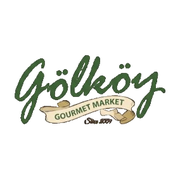
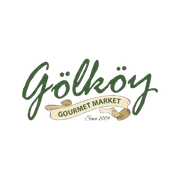
fix: header/footer logosunu arka plansiz yesil Golkoy Gurme yap.
Crop/transform kutusu kaldirildi; Google icin seffaf favicon kullanildi.

Changed region(s): [[0.0556, 0.3056, 0.9444, 0.6944]]

diff --git a/frontend/src/App.css b/frontend/src/App.css
@@ -97,43 +97,32 @@
 }
 
 .logo-container img {
-  transition: all 0.3s cubic-bezier(0.34, 1.56, 0.64, 1);
-  filter: drop-shadow(0 2px 4px rgba(0, 0, 0, 0.1));
+  transition: opacity 0.2s ease;
 }
 
 .brand-logo-shell {
   display: flex;
   align-items: center;
-  width: 188px;
-  min-width: 188px;
-  height: 78px;
+  width: auto;
+  min-width: 0;
+  height: 56px;
   justify-content: flex-start;
 }
 
 .brand-logo-main {
   display: flex;
   align-items: center;
-  width: 100%;
+  width: auto;
   height: 100%;
 }
 
-.brand-logo-crop {
-  width: 188px;
-  height: 78px;
-  display: flex;
-  align-items: flex-start;
-  justify-content: flex-start;
-  overflow: hidden;
-  filter: drop-shadow(0 3px 8px rgba(23, 37, 84, 0.12));
-}
-
 .brand-logo-image {
-  width: 263px;
-  max-width: none;
-  height: auto;
+  height: 56px;
+  width: auto;
+  max-width: 200px;
   display: block;
-  transform: translate(-32px, -74px);
-  transform-origin: top left;
+  object-fit: contain;
+  background: transparent;
   pointer-events: none;
   user-select: none;
 }
@@ -164,24 +153,13 @@
   flex-shrink: 0;
 }
 
-.footer-logo-crop {
-  width: 162px;
-  height: 78px;
-  display: flex;
-  align-items: flex-start;
-  justify-content: flex-start;
-  overflow: hidden;
-  flex-shrink: 0;
-  margin-left: 0;
-}
-
 .footer-brand-logo-image {
-  width: 263px;
-  max-width: none;
-  height: auto;
+  height: 56px;
+  width: auto;
+  max-width: 200px;
   display: block;
-  transform: translate(-50px, -74px);
-  transform-origin: top left;
+  object-fit: contain;
+  background: transparent;
   pointer-events: none;
   user-select: none;
 }
@@ -4544,19 +4522,12 @@ video.promo-grid-image,
   }
 
   .main-header--storefront .brand-logo-shell {
-    width: 118px;
-    min-width: 118px;
-    height: 50px;
-  }
-
-  .main-header--storefront .brand-logo-crop {
-    width: 118px;
-    height: 50px;
+    height: 44px;
   }
 
   .main-header--storefront .brand-logo-image {
-    width: 168px;
-    transform: translate(-22px, -48px);
+    height: 44px;
+    max-width: 150px;
   }
 
   .main-header--storefront .modern-search-container .input-group,
@@ -4652,19 +4623,12 @@ video.promo-grid-image,
   }
 
   .main-header--storefront .brand-logo-shell {
-    width: 132px;
-    min-width: 132px;
-    height: 56px;
-  }
-
-  .main-header--storefront .brand-logo-crop {
-    width: 132px;
-    height: 56px;
+    height: 50px;
   }
 
   .main-header--storefront .brand-logo-image {
-    width: 185px;
-    transform: translate(-24px, -52px);
+    height: 50px;
+    max-width: 170px;
   }
 
   .main-header--storefront .modern-search-container .form-control,
@@ -5347,31 +5311,21 @@ video.promo-grid-image,
   }
 
   .brand-logo-shell {
-    width: 132px !important;
-    min-width: 132px !important;
-    height: 46px !important;
-  }
-
-  .brand-logo-crop {
-    width: 132px !important;
-    height: 46px !important;
-    overflow: hidden !important;
+    height: 42px !important;
   }
 
   .brand-logo-image {
-    width: 194px !important;
-    max-width: none !important;
-    transform: translate(-23px, -54px) !important;
-  }
-
-  .footer-logo-crop {
-    width: 132px !important;
-    height: 46px !important;
+    height: 42px !important;
+    max-width: 148px !important;
+    width: auto !important;
+    transform: none !important;
   }
 
   .footer-brand-logo-image {
-    width: 194px !important;
-    transform: translate(-23px, -54px) !important;
+    height: 42px !important;
+    max-width: 148px !important;
+    width: auto !important;
+    transform: none !important;
   }
 
   .footer-brand-secondary-image {
@@ -5699,24 +5653,22 @@ video.promo-grid-image,
     height: 70px !important;
   }
 
-  .brand-logo-crop {
-    width: 160px !important;
-    height: 62px !important;
+  .brand-logo-shell {
+    height: 50px !important;
   }
 
   .brand-logo-image {
-    width: 234px !important;
-    transform: translate(-30px, -70px) !important;
-  }
-
-  .footer-logo-crop {
-    width: 138px !important;
-    height: 62px !important;
+    height: 50px !important;
+    max-width: 170px !important;
+    width: auto !important;
+    transform: none !important;
   }
 
   .footer-brand-logo-image {
-    width: 234px !important;
-    transform: translate(-44px, -70px) !important;
+    height: 50px !important;
+    max-width: 170px !important;
+    width: auto !important;
+    transform: none !important;
   }
 
   .secondary-logo {

diff --git a/frontend/src/components/Footer.jsx b/frontend/src/components/Footer.jsx
@@ -97,7 +97,7 @@ export default function Footer() {
     ? `https://wa.me/${contact.whatsAppNumber}?text=${encodeURIComponent(contact.whatsAppMessage || "")}`
     : "#";
 
-  const footerLogoSrc = "/images/golkoy-logo-new.png";
+  const footerLogoSrc = "/images/golkoy-header-logo.png";
 
   const phoneDisplay = contact.phoneDisplay || contact.phone;
   const hasPhone = Boolean(contact.whatsAppNumber || phoneDisplay);
@@ -118,13 +118,11 @@ export default function Footer() {
             <div className="footer-brand">
               <div className="footer-brand-logos mb-3">
                 <Link to="/" className="footer-brand-link" aria-label="Ana sayfa">
-                  <div className="footer-logo-crop">
-                    <img
-                      src={footerLogoSrc}
-                      alt={company.name || "Gölköy Gurme"}
-                      className="footer-brand-logo-image"
-                    />
-                  </div>
+                  <img
+                    src={footerLogoSrc}
+                    alt={company.name || "Gölköy Gurme"}
+                    className="footer-brand-logo-image"
+                  />
                 </Link>
               </div>
               {company.description && (

diff --git a/frontend/src/App.js b/frontend/src/App.js
@@ -320,16 +320,11 @@ function Header() {
               <Link to="/" className="text-decoration-none">
                 <div className="d-flex align-items-center logo-stack brand-logo-shell">
                   <div className="logo-container brand-logo-main">
-                    <div
-                      className="main-logo brand-logo-crop"
-                      aria-label="Gölköy Gurme"
-                    >
-                      <img
-                        className="brand-logo-image"
-                        src="/images/golkoy-logo-new.png"
-                        alt="Gölköy Gurme"
-                      />
-                    </div>
+                    <img
+                      className="brand-logo-image"
+                      src="/images/golkoy-header-logo.png"
+                      alt="Gölköy Gurme"
+                    />
                   </div>
                 </div>
               </Link>

diff --git a/frontend/public/index.html b/frontend/public/index.html
@@ -4,10 +4,11 @@
     <meta charset="utf-8" />
     <meta name="google" content="notranslate" />
     <meta http-equiv="Content-Language" content="tr" />
-    <link rel="icon" href="%PUBLIC_URL%/favicon.ico" sizes="any" />
     <link rel="icon" type="image/png" sizes="32x32" href="%PUBLIC_URL%/images/favicon-32.png" />
     <link rel="icon" type="image/png" sizes="192x192" href="%PUBLIC_URL%/images/golkoy-favicon.png" />
+    <link rel="shortcut icon" href="%PUBLIC_URL%/images/golkoy-favicon.png" />
     <link rel="apple-touch-icon" href="%PUBLIC_URL%/images/apple-touch-icon.png" />
+    <link rel="icon" href="%PUBLIC_URL%/favicon.ico" sizes="any" />
     <meta name="viewport" content="width=device-width, initial-scale=1" />
     <meta name="theme-color" content="#2d5a3d" />
     <meta

diff --git a/frontend/src/services/siteSettingsService.js b/frontend/src/services/siteSettingsService.js
@@ -143,7 +143,7 @@ const getDefaultSiteSettings = () => ({
     legalName: "Gölköy Gurme Market",
     description:
       "Bodrum Gölköy'de taze meyve-sebze, et, süt ürünleri ve günlük market ihtiyaçlarınızı kendi kuryemizle kapınıza getiriyoruz. Yerel lezzetler, soğuk zincir ve güvenli alışveriş.",
-    logoUrl: "/images/golkoy-logo1.png",
+    logoUrl: "/images/golkoy-header-logo.png",
     secondaryLogoUrl: "/images/dogadan-sofranza-logo.png",
     copyrightText: "Tüm haklar Gölköy Gurme Markete aittir.",
   },

diff --git a/frontend/scripts/generate-favicon.py b/frontend/scripts/generate-favicon.py
@@ -4,7 +4,6 @@ from pathlib import Path
 public = Path(__file__).resolve().parents[1] / "public"
 images = public / "images"
 
-# Yeşil Gölköy logosu (kullanıcının gönderdiği marka)
 src = Image.open(images / "golkoy-logo-new.png").convert("RGBA")
 pixels = src.load()
 w, h = src.size
@@ -21,27 +20,17 @@ for y in range(h):
         maxx = max(maxx, x)
         maxy = max(maxy, y)
 
-cropped = src.crop((minx, miny, maxx + 1, maxy + 1))
+pad = 8
+cropped = src.crop(
+    (max(0, minx - pad), max(0, miny - pad), min(w, maxx + 1 + pad), min(h, maxy + 1 + pad))
+)
+cropped.save(images / "golkoy-header-logo.png", format="PNG", optimize=True)
+
 cw, ch = cropped.size
-out = Image.new("RGBA", (cw, ch), (255, 255, 255, 255))
-cp = cropped.load()
-op = out.load()
-for y in range(ch):
-    for x in range(cw):
-        r, g, b, a = cp[x, y]
-        if a < 20 or (r < 25 and g < 25 and b < 25):
-            continue
-        op[x, y] = (r, g, b, 255)
-
 side = max(cw, ch)
-pad = int(side * 0.10)
-canvas_side = side + pad * 2
-canvas = Image.new("RGBA", (canvas_side, canvas_side), (255, 255, 255, 255))
-canvas.paste(out, (pad + (side - cw) // 2, pad + (side - ch) // 2), out)
-
-ico_sizes = [(16, 16), (32, 32), (48, 48), (64, 64)]
-ico_images = [canvas.resize(s, Image.Resampling.LANCZOS) for s in ico_sizes]
-ico_images[-1].save(public / "favicon.ico", format="ICO", sizes=ico_sizes)
+pad2 = int(side * 0.12)
+canvas = Image.new("RGBA", (side + pad2 * 2, side + pad2 * 2), (0, 0, 0, 0))
+canvas.paste(cropped, (pad2 + (side - cw) // 2, pad2 + (side - ch) // 2), cropped)
 
 for name, size in [("logo192.png", 192), ("logo512.png", 512)]:
     canvas.resize((size, size), Image.Resampling.LANCZOS).save(
@@ -56,9 +45,8 @@ canvas.resize((180, 180), Image.Resampling.LANCZOS).save(
 )
 canvas.save(images / "golkoy-favicon.png", format="PNG", optimize=True)
 
-og = Image.new("RGB", (1200, 630), (255, 255, 255))
-logo_og = canvas.resize((460, 460), Image.Resampling.LANCZOS).convert("RGBA")
-og.paste(logo_og, ((1200 - 460) // 2, (630 - 460) // 2), logo_og)
-og.save(images / "og-default.jpg", format="JPEG", quality=92, optimize=True)
+ico_sizes = [(16, 16), (32, 32), (48, 48), (64, 64)]
+ico_images = [canvas.resize(s, Image.Resampling.LANCZOS) for s in ico_sizes]
+ico_images[-1].save(public / "favicon.ico", format="ICO", sizes=ico_sizes)
 
-print("yeşil Gölköy favicon hazır")
+print("arka plansiz yesil Golkoy header + favicon hazir")
